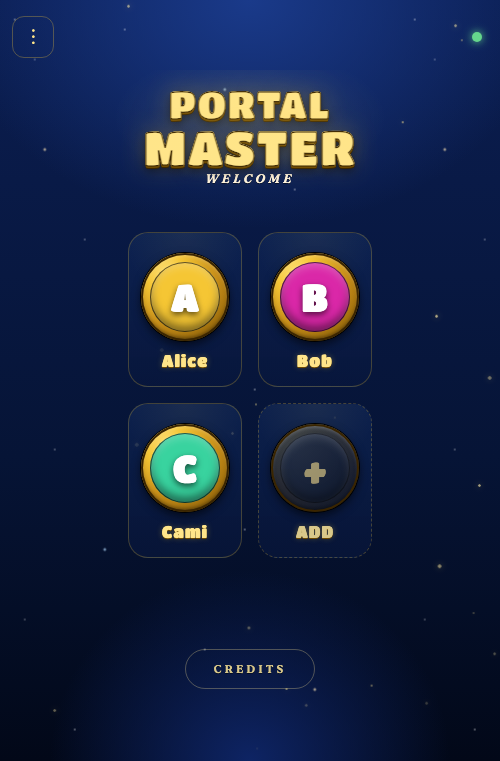
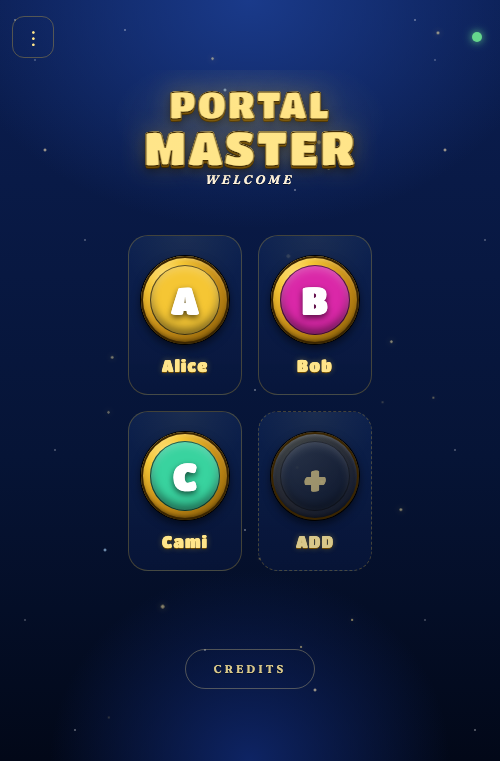
docs: refresh tour + features + roadmap for v1.4.x playtest pass
Re-ran `cargo test --test screenshot_tour -- --ignored --nocapture`
against the post-9.7 SPA so all 10 docs/assets/screens/*.png now
show element-tinted bezel rings, the inline lid search, the new
figure-detail blue card, gold action buttons, the Kaos overlay's
sigil silhouette + hold-to-dismiss pill, etc.

Caption updates:
- tour 05 (toy box): notes element-coloured rings + matching chip
  row + TRAP / LAND/SKY/SEA badges.
- tour 08 (menu overlay): Kaos toggle moved to per-profile EDIT
  screen; removed the stale "ENABLE KAOS toggle lives here" line.
- tour 09 (Kaos swap): "auto-dismisses ~5s" → "sticks until the
  user holds the hold-to-dismiss pill".

`features.md` mirrors the tour caption changes (element-coded
toy box, inline search, Kaos toggle relocated, hold-to-dismiss).

`roadmap.md` retitles Phase 9 to "Tailwind v4 + iPad/iPhone
responsive pass (shipped in v1.4.x)" with the playtest deltas as
the v1.4.x line; Phase 10 now describes the macOS-as-first-class
work (mock-driver server, ios-inspect, sim e2e); Non-goals
updated to drop "no macOS" and replace with a sharper note that
macOS runs the mock driver only.

diff --git a/docs/roadmap.md b/docs/roadmap.md
@@ -26,9 +26,9 @@ Added a real end-to-end test harness using fantoccini against ChromeDriver befor
 
 Rewrote the phone UI to match the Skylanders game aesthetic: gold-bezeled circular figure portraits, starfield background, bold titles with gold outline, Titan One type. Added safe-area handling for iPhones with a notch, service-worker scaffolding toward PWA install, toy-box-lid interaction for the collection overlay, and the egui launcher's cloud + iris boot animations. Per-game display-mode persistence so RPCS3 launches don't trigger a TV resolution flicker. Per-slot ownership chips when two phones are co-op'ing.
 
-## Phase 5 — Kaos (shipped in v1.1.0)
+## Phase 5 — Kaos (shipped in v1.1.0; refined in v1.4.x)
 
-The surprise feature, gated behind a per-profile opt-in toggle in the kebab menu. A wall-clock timer fires after a 20-minute warmup, then re-arms at uniformly random offsets between 1 minute and 1 hour. Each fire swaps a random placed figure for a compatibility-aware random pick from the owned collection (vehicles only get pulled in for SuperChargers, figures only swap into games at or after their game-of-origin). Text-only catchphrase overlay auto-dismisses after about five seconds. The taunt also routes through the v1.1.0 ghost-session replay buffer, so a backgrounded phone catches it on reconnect.
+The surprise feature, gated behind a per-profile opt-in toggle. (Originally on the kebab menu; v1.4.x moved it to the per-profile EDIT screen behind the manage-profiles Konami gate, where profile-scoped preferences belong.) A wall-clock timer fires after a 20-minute warmup, then re-arms at uniformly random offsets between 1 minute and 1 hour. Each fire swaps a random placed figure for a compatibility-aware random pick from the owned collection (vehicles only get pulled in for SuperChargers, figures only swap into games at or after their game-of-origin). Text-only catchphrase overlay sticks until the user holds the "hold to dismiss" pill — the v1.1 auto-dismiss timer was short-circuiting kids before they finished reading the insult. The taunt also routes through the v1.1.0 ghost-session replay buffer, so a backgrounded phone catches it on reconnect.
 
 ## Phase 6 — Post-Kaos polish (in progress)
 
@@ -42,14 +42,23 @@ Single-exe distribution. The phone SPA, images, figure metadata, fonts, and icon
 
 The first round of changes after a real session in front of the kids. Ghost sessions: a phone backgrounding no longer clears the user's portal — figures stay placed for an hour or until a reclaim, with a 32-event replay buffer catching up the phone on what landed during the gap. Kickback cooldown countdown so the takeover screen's "kick back" button reads honestly. The Kaos feature itself (Phase 5 above). Empty-portal-slot cleanup so kids don't tap inert bezels expecting them to do something. Round-trip ghost/reclaim test pins the contract. v1.1.0 packages it all.
 
-## Phase 9 and beyond — open
+## Phase 9 — Tailwind v4 + iPad/iPhone responsive pass (shipped in v1.4.x)
 
-CSS modularization to support iPad alongside the phone (post-1.0 commitment), service-worker for PWA cache + update detection, demo harness for screen recording, and the rest of the Phase 6 stat-decoding pass. None of these block daily use. Detailed checklist lives in `PLAN.md` in the repo.
+The phone CSS rewrite that 1.x deferred. The legacy ~5800-line monolithic stylesheet got replaced by a Tailwind v4 utility-first build (cached CLI downloader, Trunk pre_build hook, `@theme`-driven design tokens, per-component CSS files). Rem-based typography with a tablet root-size bump means iPad and iPhone share one stylesheet — no separate "iPad version". The v1.4.x playtest pass on top added element-tinted bezel rings, Trap and Land/Sky/Sea badges so unfamiliar figure thumbnails read at a glance, the Kaos sigil silhouette (the asset wasn't being copied into `dist/` — sigil never actually rendered before), and a flotilla of contrast and tap-target fixes that only showed up under a real kid using a real iPad.
+
+## Phase 10 — macOS as a first-class platform (in progress)
+
+Mac is a production target now. Server compiles + runs on macOS against the mock RPCS3 driver (no Mac UIA equivalent — that's a real product limitation, not a packaging oversight); release artefact is a notarized + signed `.app` inside a `.dmg`. The `tools/ios-inspect/` CLI drives the iOS Simulator + WebKit Web Inspector for layout probes during development. The chromedriver e2e harness ports cleanly to macOS. The simultaneous iPad + iPhone simulator e2e lane (PLAN 10.4) catches multi-device product bugs that a single browser viewport hides. A few items still landing: macOS bundle code-signing follow-ups, real installer polish.
+
+## Beyond Phase 10 — open
+
+Service-worker for PWA cache + update detection (so an iOS Add-to-Home-Screen survives long backgrounding), the rest of the Phase 6 per-kind `.sky` stat decoders (traps / vehicles / creation crystals), demo harness for screen recording. None of these block daily use. Detailed checklist lives in `PLAN.md` in the repo.
 
 ## Non-goals
 
 - No bundling of RPCS3, game ISOs, or figure firmware.
-- No Linux or macOS support.
+- No Linux support.
+- No AXUIElement-based macOS RPCS3 driver — Mac runs the mock driver only. Mac users get a working portal-controller against an in-memory mock, not a live emulator.
 - No live wiki scraping at runtime — figure data is committed to the repo.
 - No audio (text-only Kaos to dodge copyright).
 - No user-entered figure names.

diff --git a/docs/features.md b/docs/features.md
@@ -12,7 +12,8 @@ What the app does today, grouped by what you actually interact with.
 - A portal view and a collection view, treated as separate surfaces. The collection is a "toy box" you open as an overlay on top of the portal.
 - Empty portal slots stay hidden — the toy-box arrow hint is the only call-to-action when nothing is placed, so a kid tapping around doesn't get the false-affordance impression that empty bezels do something. Slots reappear as figures land.
 - Browse the full owned collection filtered by element (fire, water, air, earth, life, undead, magic, tech, light, dark), by game of origin (SSA, Giants, Swap Force, Trap Team, SuperChargers, Imaginators), and by category (figures, traps, vehicles, sidekicks, items, creation crystals). The library is auto-filtered to figures compatible with whatever game is currently booted.
-- Full-text search by canonical figure name for kids who actually know what they are looking for.
+- Each card's bezel ring is tinted with the figure's element, and the ELEMENTS filter chips share those colours, so the chip you tap visually matches the rings you're scanning for. Trap Team traps get a small purple TRAP corner badge; SuperChargers vehicles get a LAND/SKY/SEA terrain badge — both surfaces where the thumbnail alone is ambiguous (captured villain, vehicle silhouette).
+- Full-text search by canonical figure name for kids who actually know what they are looking for. Inline in the lid header — no second search box below the toggle.
 - Tap a figure to add it to a slot. Tap a figure already on the portal to remove it. No drag-and-drop.
 - Reposes collapsed in the browse view behind a "N variants" badge with a per-card cycle button, so a stack of Spyro variants does not drown out the rest of the collection.
 
@@ -48,10 +49,10 @@ What the app does today, grouped by what you actually interact with.
 
 ## Kaos surprise (v1.1.0)
 
-- Per-profile opt-in toggle in the kebab menu. Off by default while we tune the cadence and the compatibility heuristic in real play.
+- Per-profile opt-in toggle on the per-profile EDIT screen behind the manage-profiles Konami gate. Off by default while we tune the cadence and the compatibility heuristic in real play.
 - 20-minute warmup from session unlock, then a swap fires at a uniformly random offset between 1 minute and 1 hour later — and re-arms with another random offset after each fire. Disruption, not spam.
 - A random figure on the portal gets swapped for a different compatible figure from the owned collection. The app drives this through the same portal automation as a manual swap, so it looks and plays identically from the game's point of view. Vehicles only swap in for SuperChargers; figures only swap into games at or after their game-of-origin.
-- Text-only overlay with Kaos-voice catchphrases; no audio (to avoid copyright issues). Auto-dismisses after about five seconds, or tap to dismiss early.
+- Text-only overlay with Kaos-voice catchphrases; no audio (to avoid copyright issues). The overlay sticks until the user holds the "hold to dismiss" pill — auto-dismiss timers were short-circuiting kids before they finished reading the insult.
 - The taunt routes through the ghost session's replay buffer too — if the targeted phone happened to be backgrounded when the swap fired, the catchphrase still lands when they come back.
 
 ## Under the hood

diff --git a/docs/tour.md b/docs/tour.md
@@ -59,7 +59,7 @@ A walkthrough of the phone interface, captured straight from the e2e test harnes
   <figcaption>
     <span class="tour-step">05</span>
     <strong>Open the toy box.</strong>
-    The whole owned collection, filterable by element, by game-of-origin, by category, plus a free-text search. Reposes collapse behind a "N variants" badge so a stack of Spyros doesn't drown out everyone else.
+    The whole owned collection, filterable by element, game-of-origin, or category, with a free-text search inline in the lid header. Each card's bezel ring is tinted with the figure's element so air vs fire vs water reads at a glance; the ELEMENTS chip row mirrors those colours so the filter you tap matches the rings you're scanning for. Trap Team traps and SuperChargers vehicles get a corner badge (TRAP, LAND/SKY/SEA) since their thumbnail is a captured villain or a vehicle silhouette — "what is this?" otherwise depends on knowing the line. Reposes collapse behind a "N variants" badge so a stack of Spyros doesn't drown out everyone else.
   </figcaption>
 </figure>
 
@@ -92,7 +92,7 @@ A walkthrough of the phone interface, captured straight from the e2e test harnes
   <figcaption>
     <span class="tour-step">08</span>
     <strong>Hand the phone off.</strong>
-    The kebab menu carries the join QR (so an existing player can invite a new joiner) and the per-profile actions: switch profile, manage profiles, hold-to-switch-games, hold-to-shut-down. The ENABLE KAOS toggle lives here too.
+    The kebab menu carries the join QR (so an existing player can invite a new joiner) and the per-profile actions: switch profile, manage profiles, hold-to-switch-games, hold-to-shut-down. The Kaos opt-in toggle lives on the per-profile EDIT screen behind the manage-profiles Konami gate now — it's a profile-scoped preference, not a session-level toggle.
   </figcaption>
 </figure>
 
@@ -103,7 +103,7 @@ A walkthrough of the phone interface, captured straight from the e2e test harnes
   <figcaption>
     <span class="tour-step">09</span>
     <strong>KAOS strikes!</strong>
-    With Kaos opt-in turned on, the timer fires somewhere in every hour after the 20-minute warmup. A random placed figure swaps for a compatible random pick from the collection, taunt overlay lands for ~5 seconds, then vanishes. Vehicles only swap in for SuperChargers; figures only swap into games at or after their game-of-origin.
+    With Kaos opt-in turned on, the timer fires somewhere in every hour after the 20-minute warmup. A random placed figure swaps for a compatible random pick from the collection. The taunt overlay sticks until the user holds the "hold to dismiss" pill — kids couldn't read Kaos's insults before the auto-dismiss expired. Vehicles only swap in for SuperChargers; figures only swap into games at or after their game-of-origin.
   </figcaption>
 </figure>
 
